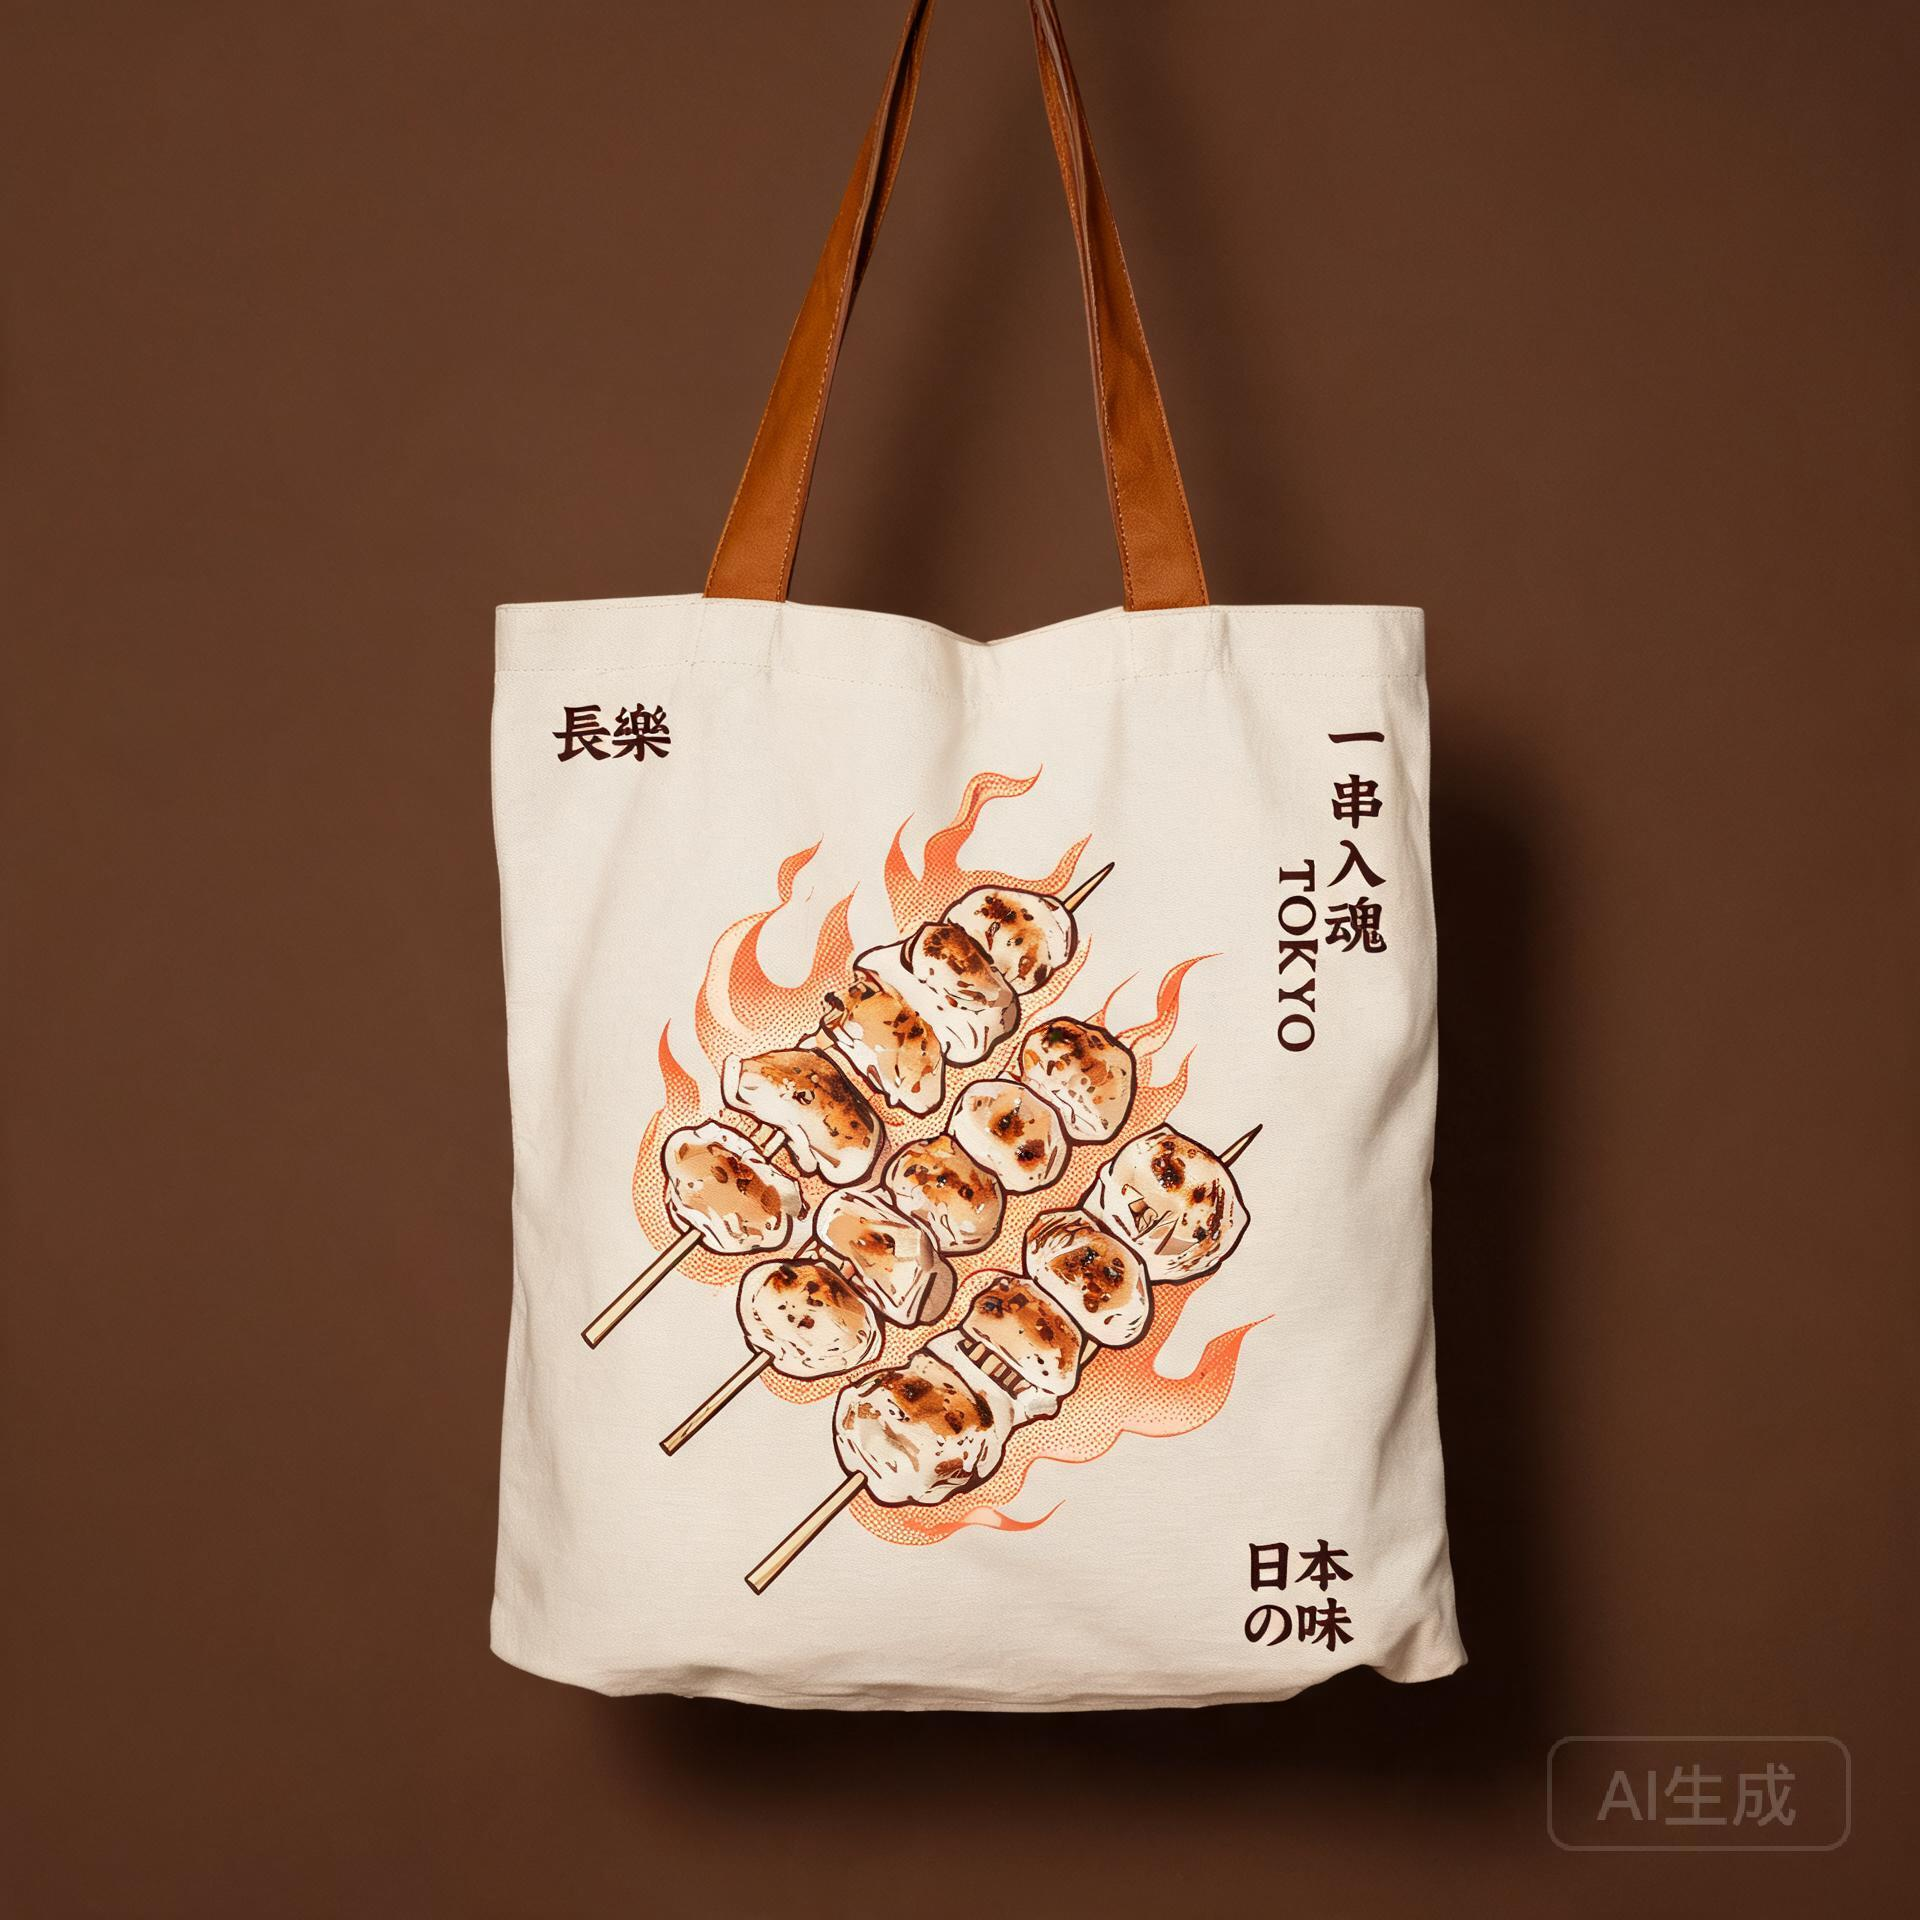
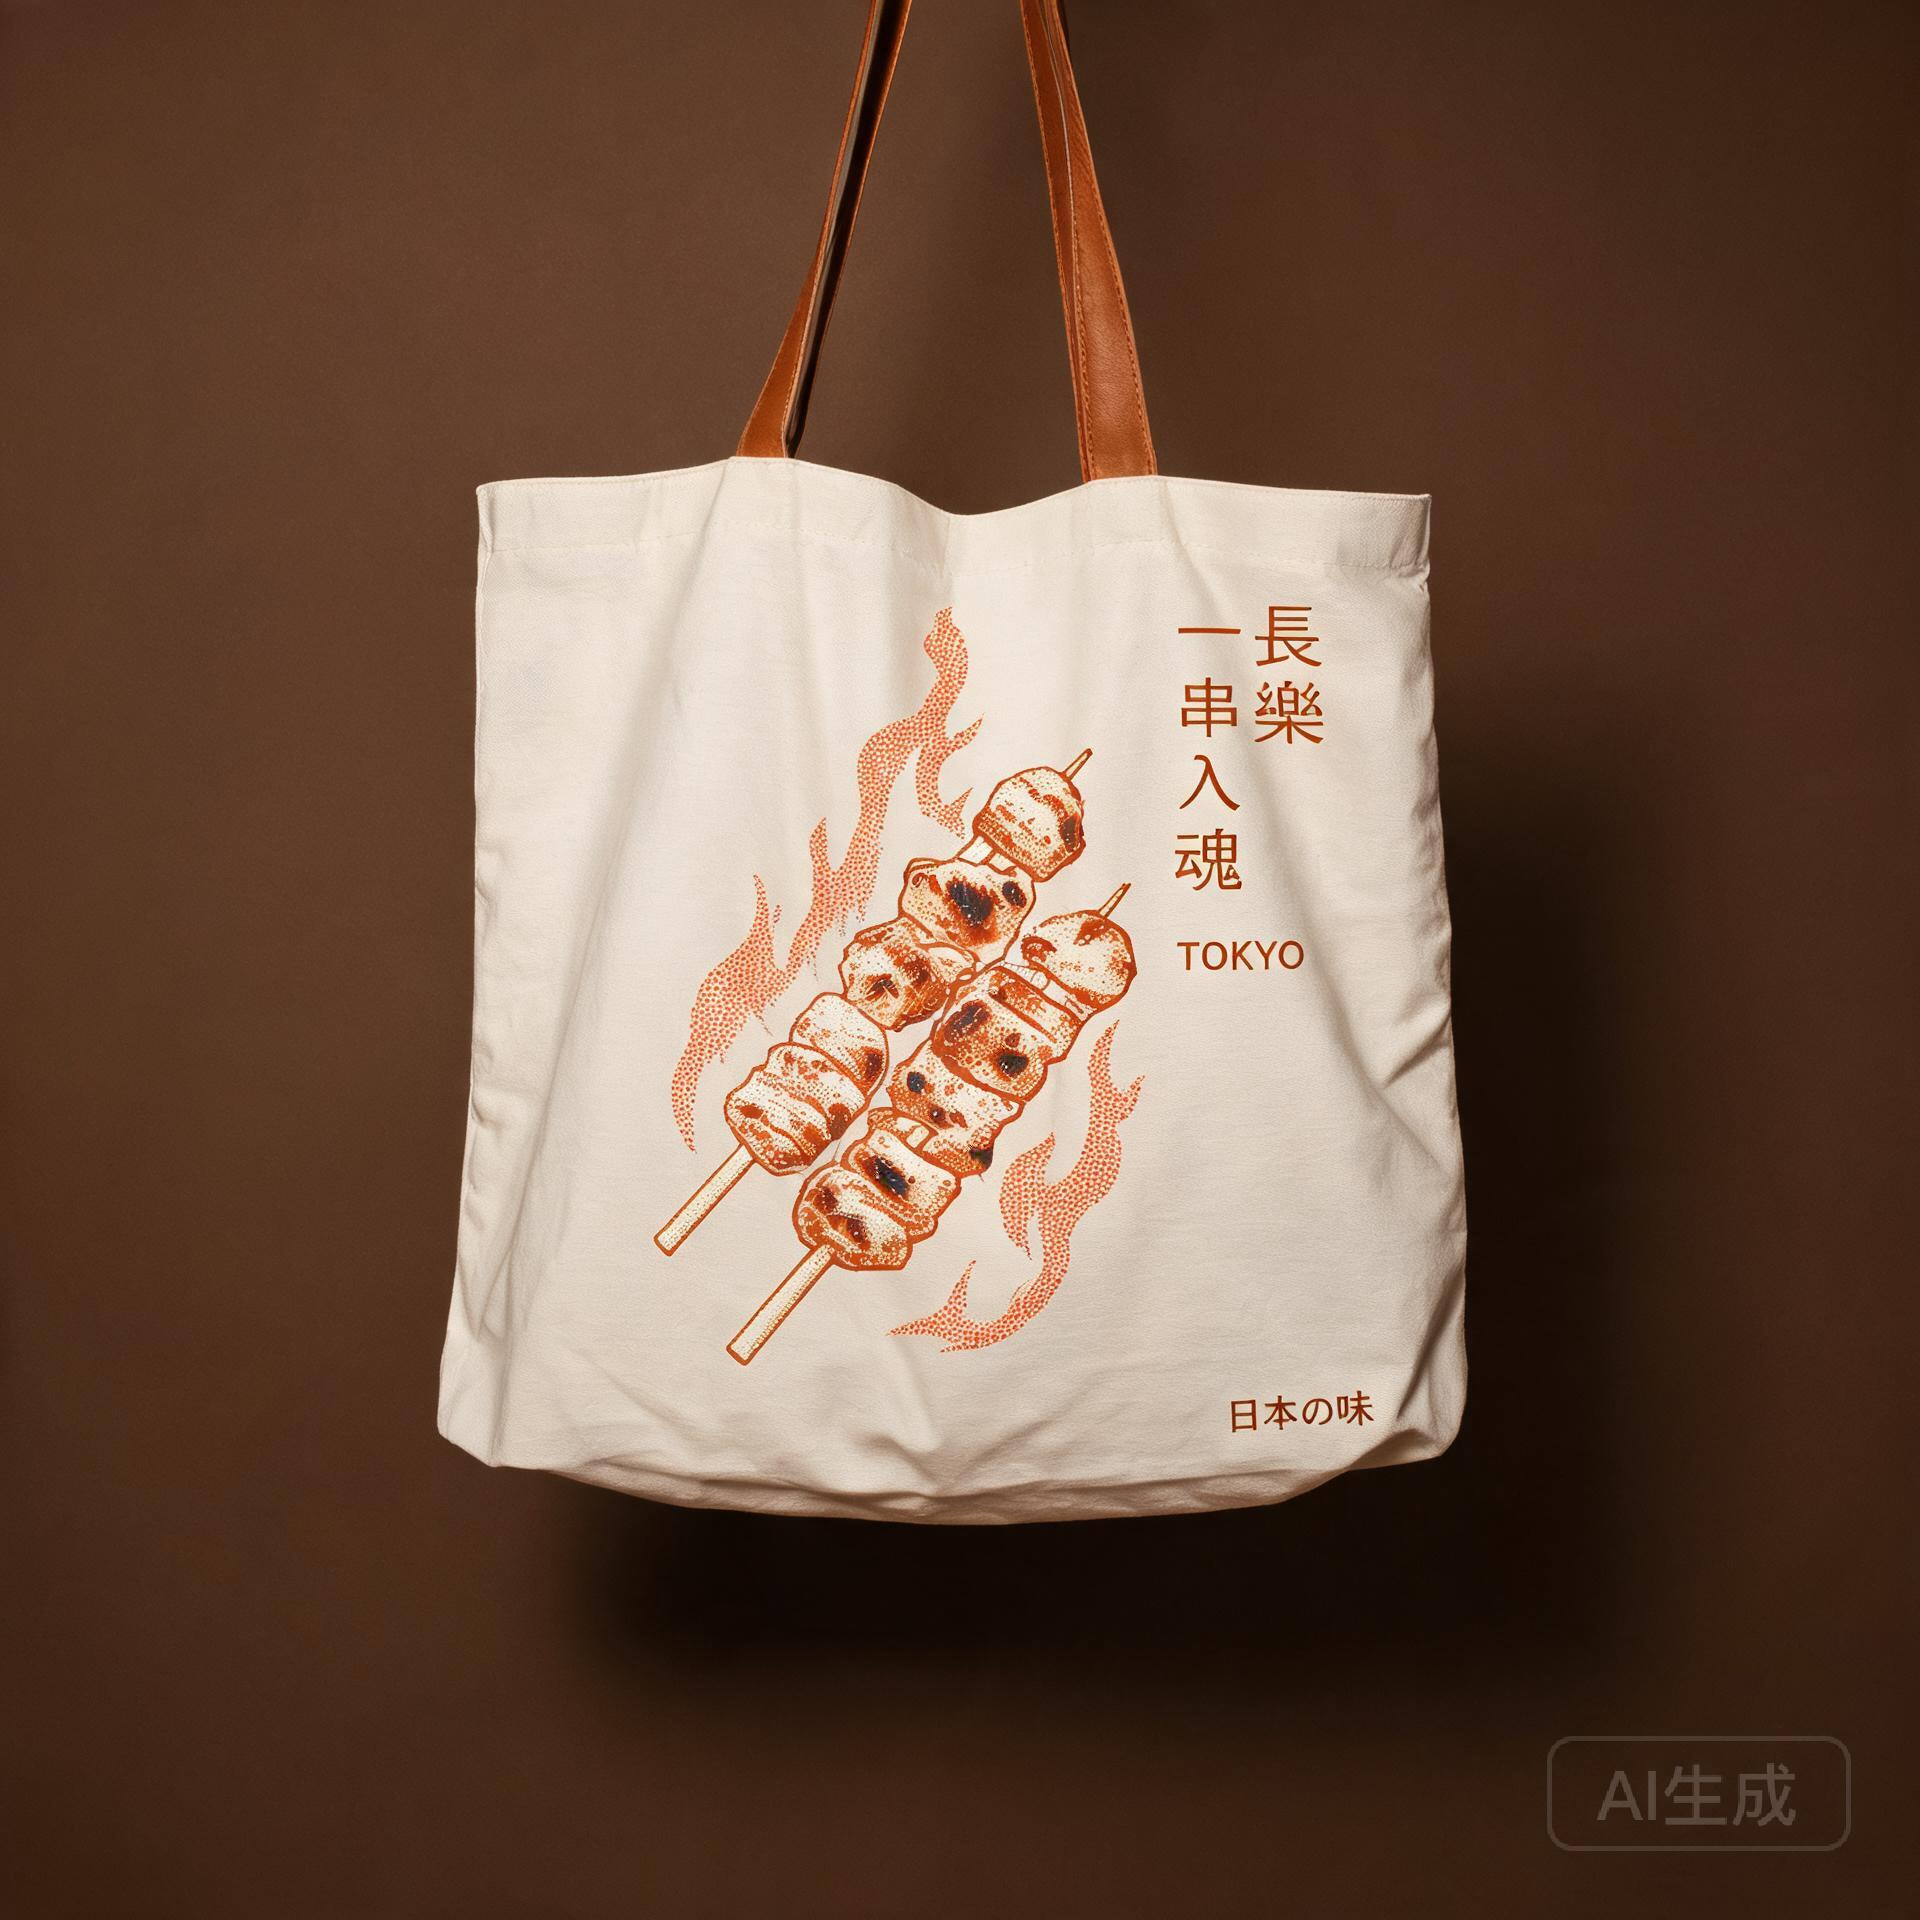
Larger lighter welcome tote, add bowl and plate tableware designs

Changed region(s): [[0.2188, 0.0, 0.9688, 0.9688], [0.0, 0.9062, 0.0938, 1.0]]

diff --git a/index.html b/index.html
@@ -186,8 +186,8 @@ body {
 
 <div class="section">
   <div class="section-title">
-    <h2>包装全览</h2>
-    <p>主视觉 · 外卖袋 · 打包餐盒 · 杯套 · 筷子套 · 湿巾包装 · 牙签旗 · 封口贴 · 首次到店礼袋 · 生日卡 · 感谢卡</p>
+    <h2>包装与餐具全览</h2>
+    <p>主视觉 · 外卖袋 · 打包餐盒 · 杯套 · 筷子套 · 湿巾包装 · 牙签旗 · 封口贴 · 首次到店礼袋 · 生日卡 · 感谢卡 · 用餐碗 · 用餐盘</p>
   </div>
   <div class="gallery">
     <div class="card">
@@ -276,6 +276,22 @@ body {
         <h3>感谢卡</h3>
         <p>餐后感谢卡，提升复购和口碑的小细节。</p>
         <span class="badge">留客</span>
+      </div>
+    </div>
+    <div class="card">
+      <div class="img-wrap"><img src="長楽炉端烧_用餐碗效果图_轻松版.jpg" alt="用餐碗"></div>
+      <div class="info">
+        <h3>用餐碗</h3>
+        <p>店内用餐米饭碗，炭黑釉面配火焰烧鸟图案。</p>
+        <span class="badge">餐具</span>
+      </div>
+    </div>
+    <div class="card">
+      <div class="img-wrap"><img src="長楽炉端烧_用餐盘效果图_轻松版.jpg" alt="用餐盘"></div>
+      <div class="info">
+        <h3>用餐盘</h3>
+        <p>店内用餐平盘，米白芝麻釉配火焰标识。</p>
+        <span class="badge">餐具</span>
       </div>
     </div>
   </div>

diff --git a/長楽炉端烧_轻松版包装系统.html b/長楽炉端烧_轻松版包装系统.html
@@ -186,8 +186,8 @@ body {
 
 <div class="section">
   <div class="section-title">
-    <h2>包装全览</h2>
-    <p>主视觉 · 外卖袋 · 打包餐盒 · 杯套 · 筷子套 · 湿巾包装 · 牙签旗 · 封口贴 · 首次到店礼袋 · 生日卡 · 感谢卡</p>
+    <h2>包装与餐具全览</h2>
+    <p>主视觉 · 外卖袋 · 打包餐盒 · 杯套 · 筷子套 · 湿巾包装 · 牙签旗 · 封口贴 · 首次到店礼袋 · 生日卡 · 感谢卡 · 用餐碗 · 用餐盘</p>
   </div>
   <div class="gallery">
     <div class="card">
@@ -276,6 +276,22 @@ body {
         <h3>感谢卡</h3>
         <p>餐后感谢卡，提升复购和口碑的小细节。</p>
         <span class="badge">留客</span>
+      </div>
+    </div>
+    <div class="card">
+      <div class="img-wrap"><img src="長楽炉端烧_用餐碗效果图_轻松版.jpg" alt="用餐碗"></div>
+      <div class="info">
+        <h3>用餐碗</h3>
+        <p>店内用餐米饭碗，炭黑釉面配火焰烧鸟图案。</p>
+        <span class="badge">餐具</span>
+      </div>
+    </div>
+    <div class="card">
+      <div class="img-wrap"><img src="長楽炉端烧_用餐盘效果图_轻松版.jpg" alt="用餐盘"></div>
+      <div class="info">
+        <h3>用餐盘</h3>
+        <p>店内用餐平盘，米白芝麻釉配火焰标识。</p>
+        <span class="badge">餐具</span>
       </div>
     </div>
   </div>
